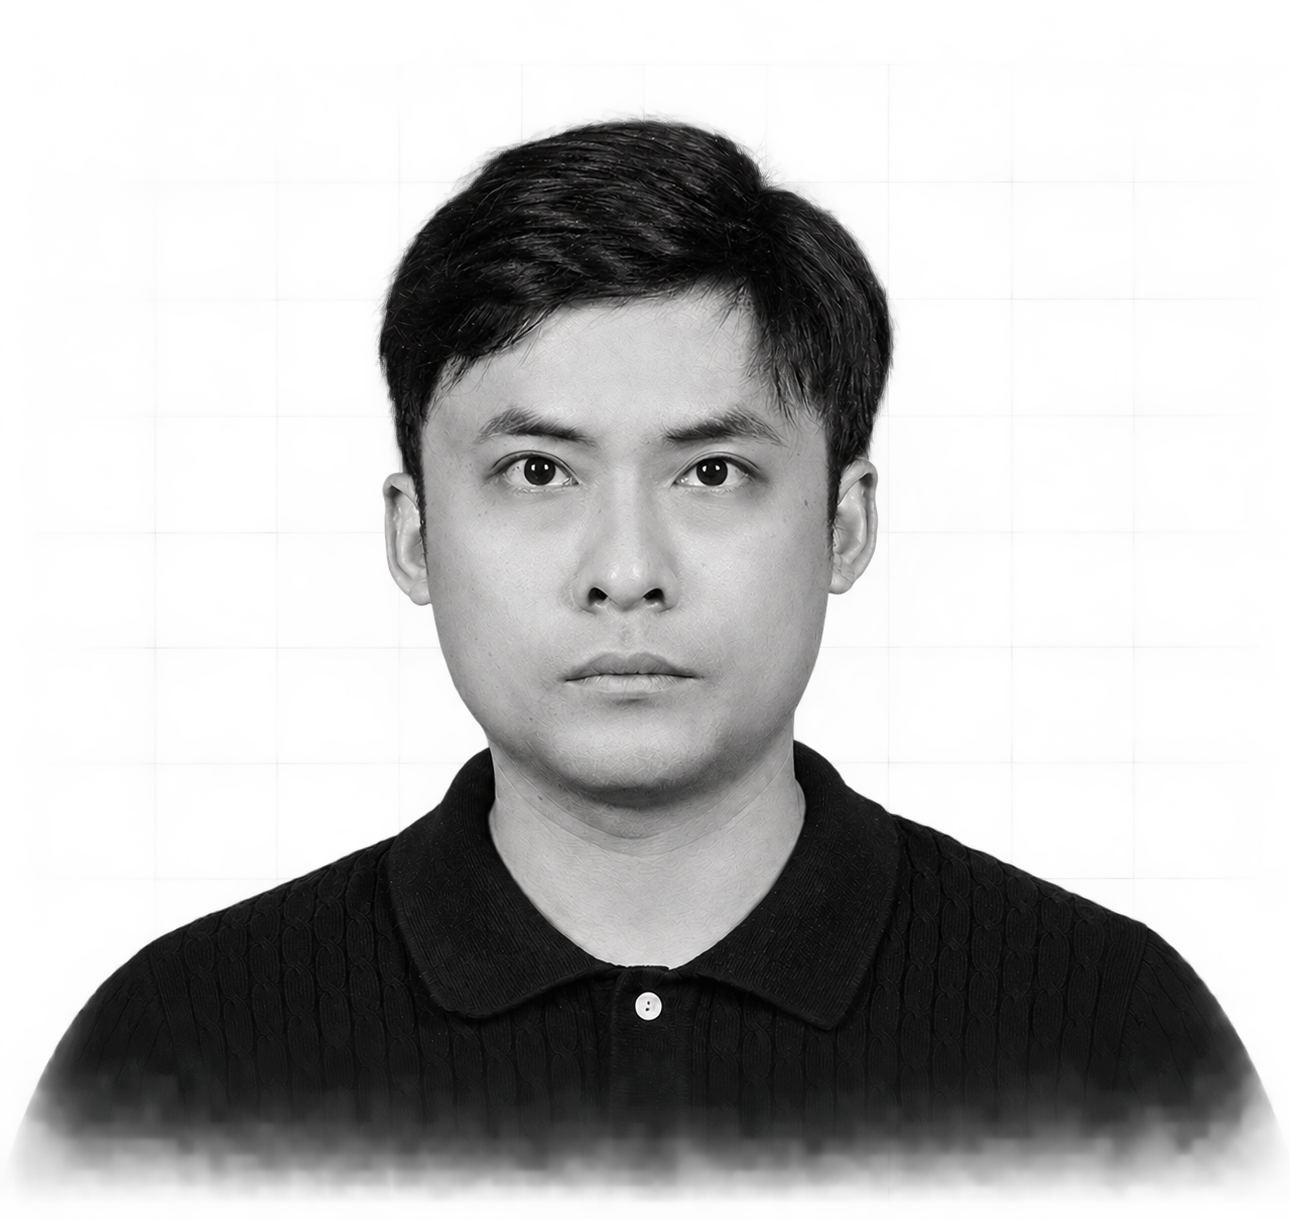
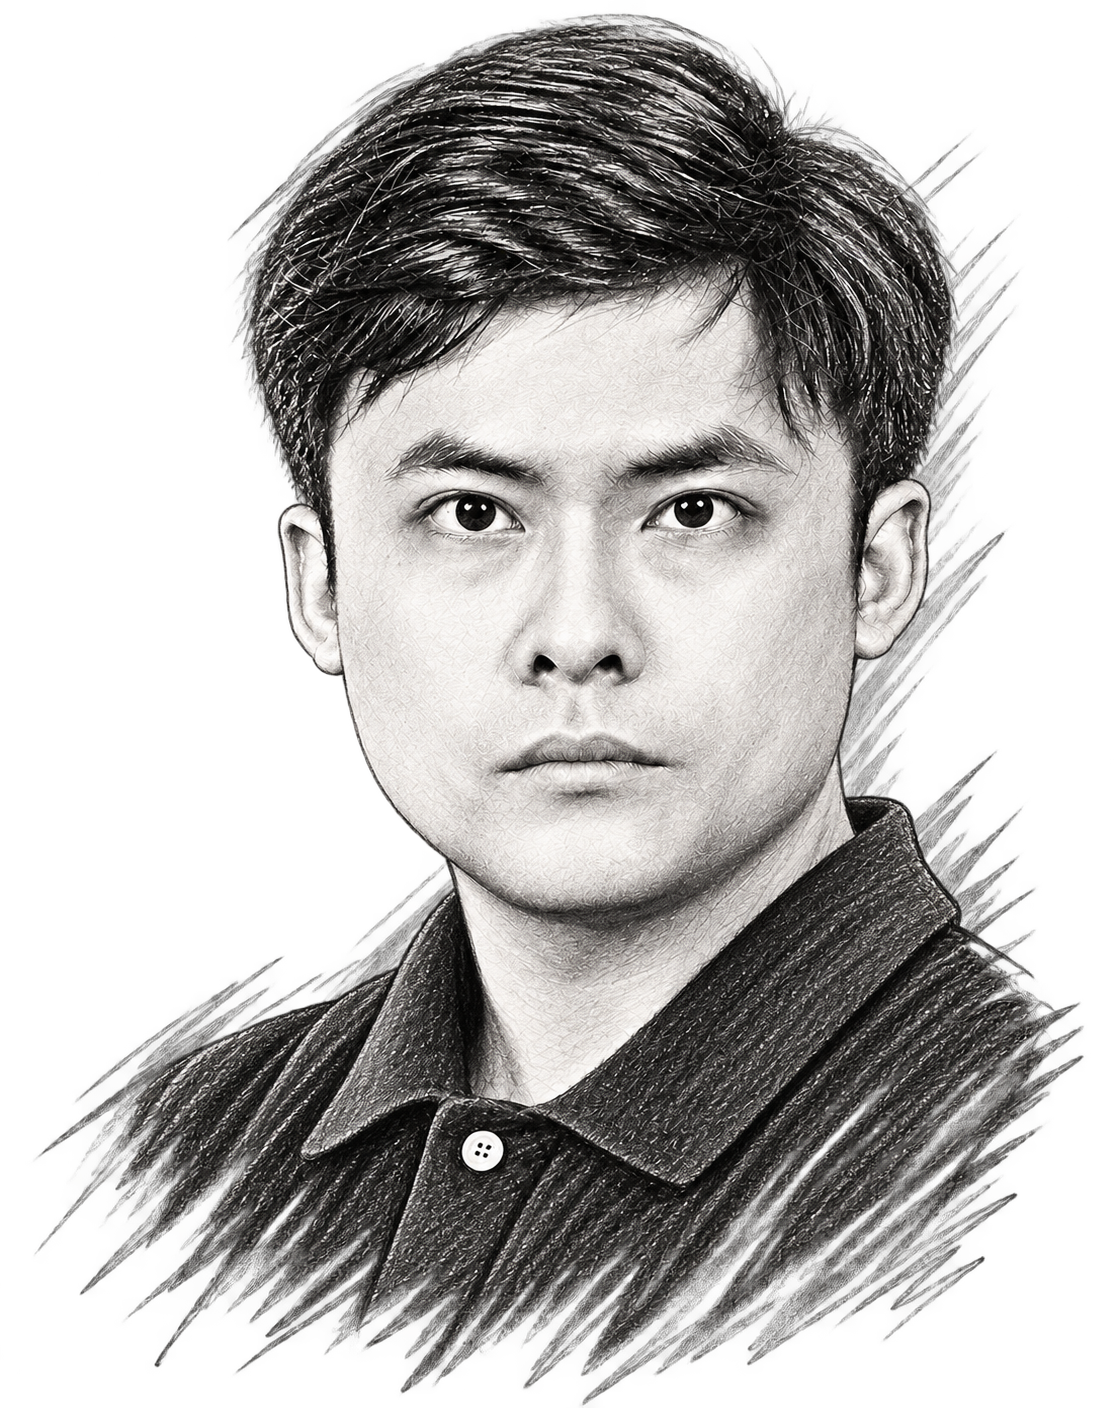
update portrait and SEO

diff --git a/src/components/hero/HeroPortrait.tsx b/src/components/hero/HeroPortrait.tsx
@@ -5,8 +5,8 @@ import styles from "../sections/Hero.module.css";
 export function HeroPortrait() {
   return (
     <div className={styles.portrait}>
-      <Image src={profile.portrait.src} alt={profile.portrait.alt} width={1290} height={1219}
-        sizes="(max-width: 583px) calc(100vw - 40px), (max-width: 900px) 544px, (max-width: 1199px) calc(52vw - 8px), (max-width: 1439px) calc(58vw + 80px), 916px"
+      <Image src={profile.portrait.src} alt={profile.portrait.alt} width={1117} height={1408}
+        sizes="(max-width: 487px) calc(100vw - 40px), (max-width: 900px) 448px, (max-width: 1199px) 432px, 544px"
         preload className={styles.portraitImage} />
     </div>
   );

diff --git a/src/components/sections/Hero.module.css b/src/components/sections/Hero.module.css
@@ -121,7 +121,7 @@
 .visual {
 	position: absolute;
 	z-index: -1;
-	top: -4rem;
+	top: 0;
 	right: 0;
 	bottom: 8rem;
 	width: 58%;
@@ -137,7 +137,8 @@
 }
 .portrait {
 	position: absolute;
-	inset: 0 0 0 -5rem;
+	inset: 0 var(--page-gutter) 0 auto;
+	width: min(100%, 34rem);
 }
 .portraitImage {
 	width: 100%;
@@ -209,7 +210,8 @@
 		width: 52%;
 	}
 	.portrait {
-		inset: 0 3.5rem 0 -3rem;
+		inset: 0 1rem 0 auto;
+		width: min(100%, 27rem);
 	}
 	.portraitImage {
 		object-position: center 20%;
@@ -272,7 +274,7 @@
 		position: relative;
 		z-index: 0;
 		inset: auto;
-		width: min(100%, 34rem);
+		width: min(100%, 28rem);
 		margin: 2.25rem auto 1.75rem;
 	}
 	.portrait {

diff --git a/src/content/site.ts b/src/content/site.ts
@@ -4,7 +4,7 @@ export const site = {
   name: "Huỳnh Minh Chiến — Portfolio",
   title: "Huỳnh Minh Chiến | Frontend Engineer & Team Lead",
   description: "Portfolio of Huỳnh Minh Chiến: frontend development with React, Next.js and React Native, payment interfaces, team mentoring and delivery coordination.",
-  image: "/images/social-card.png",
+  image: "/images/social-card.png?v=20260912",
   imageAlt: "Huỳnh Minh Chiến — Frontend Engineer, Delivery Lead and Team Lead. Web, mobile and payment products.",
   github: "https://github.com/chienhuynh-dev",
 } as const;

diff --git a/src/content/profile.ts b/src/content/profile.ts
@@ -4,7 +4,7 @@ export const profile = {
   shortName: "CHIEN",
   role: "Frontend Engineer · Delivery Lead · Team Lead",
   statement: "I build frontend interfaces for payment products and coordinate product delivery.",
-  portrait: { src: "/images/portrait.png", alt: "Portrait of Huỳnh Minh Chiến" },
+  portrait: { src: "/images/portrait.png?v=20260912", alt: "Illustrated portrait of Huỳnh Minh Chiến" },
   cv: { href: "/cv/huynh-minh-chien-cv.pdf", filename: "huynh-minh-chien-cv.pdf" },
   navigation: [
     { label: "WORK", href: "#work", mobile: true },

diff --git a/src/lib/image-loader.ts b/src/lib/image-loader.ts
@@ -2,6 +2,7 @@ import type { ImageLoaderProps } from "next/image";
 
 // Static hosting has no image server. These sizes are prepared before each build.
 export default function imageLoader({ src, width }: ImageLoaderProps): string {
-  if (src !== "/images/portrait.png") return src;
-  return `/images/portrait-${width}.webp`;
+  const [pathname, version] = src.split("?");
+  if (pathname !== "/images/portrait.png") return src;
+  return `/images/portrait-${width}.webp${version ? `?${version}` : ""}`;
 }

diff --git a/next.config.ts b/next.config.ts
@@ -7,7 +7,7 @@ const nextConfig: NextConfig = {
   images: {
     loader: "custom",
     loaderFile: "./src/lib/image-loader.ts",
-    deviceSizes: [280, 320, 390, 480, 544, 640, 768, 960, 1280],
+    deviceSizes: [280, 320, 390, 480, 544, 640, 768, 960, 1117],
     imageSizes: [],
   },
 };

diff --git a/README.md b/README.md
@@ -27,7 +27,7 @@ npm run build
 - `src/components/motion/Reveal.tsx`: a Server Component using CSS entrance animation from first paint; supports delay, distance, duration, disabled state, reduced motion, and no-JavaScript rendering. Hydration does not restart the entrance.
 - `src/content/work.ts`, `src/components/sections/SelectedWork*`, and `src/components/work/*`: three overviews with static capability summaries; no inferred execution sequence or scroll trace.
 - `src/lib/image-loader.ts` and `scripts/prepare-portrait.mjs`: local responsive image variants for static hosting.
-- `public/images/portrait.png` and nine responsive WebP files: prepared portrait assets.
+- `public/images/portrait.png` and nine responsive WebP files: prepared portrait assets based on the supplied illustrated avatar.
 - `public/cv/huynh-minh-chien-cv.pdf`: unchanged supplied CV.
 - `public/favicon.svg`: minimal personal favicon.
 - `package.json`, `package-lock.json`, `tsconfig.json`, `next.config.ts`, `next-env.d.ts`, `postcss.config.mjs`, `eslint.config.mjs`, `.gitignore`, `.openai/hosting.json`: foundation and hosting configuration.
@@ -44,7 +44,7 @@ Development: TypeScript 5.9.3, Tailwind CSS / PostCSS integration 4.3.3, ESLint 
 - Geist at weight 580 gives the requested lighter name and metrics. Name line-height is 1.01 on desktop and 1.04 on mobile to keep Vietnamese accents clear. This is slightly looser than the suggested range.
 - Content is capped at 1440px, with 64px desktop, 32px tablet, and 20px mobile gutters.
 - Secondary copy is slightly brighter than the suggested base gray for contrast. The palette uses charcoal `#111110`, ivory `#F2EEE6`, and a restrained copper accent `#D6A477` (hover `#E5B98F`). Neutral grays and borders use warm tones; technology labels remain muted.
-- Desktop enlarges the supplied portrait and starts the lower fade at 83% to retain the available shoulders and shirt. Source pixels and identity are unchanged; no generated portrait is integrated.
+- Desktop enlarges the supplied portrait and starts the lower fade at 83% to retain the available shoulders and shirt. Source pixels and identity are unchanged; the supplied illustrated avatar is used.
 - At 900px and below, the hero uses a stacked composition. Wider tablets retain a dedicated split layout.
 - Mobile order: name, role, statement, actions, portrait, then metrics. The image determines visual height, avoiding an empty reserved region. WORK, ABOUT and CV remain available on mobile.
 - Buttons use two columns at 390px and above, and stack below 390px. Metrics remain three compact columns; labels may wrap, numbers do not.
@@ -52,11 +52,11 @@ Development: TypeScript 5.9.3, Tailwind CSS / PostCSS integration 4.3.3, ESLint 
 
 ## Portrait status
 
-`public/images/portrait.png` is the user-provided 1290 × 1219 RGBA image, copied without modification.
+`public/images/portrait.png` is the user-provided 1117 × 1408 RGBA image, copied without modification.
 
 A subtle warm tint (22% sepia), softened saturation, gentle contrast / brightness, and edge / lower fades are CSS presentation; this does not reconstruct original skin colors.
 
-The nine WebP delivery sizes are 280, 320, 390, 480, 544, 640, 768, 960, and 1280px wide. `sizes` tracks the rendered CSS width. The 1280px derivative approaches the 1290px master resolution; full 2× sharpness at the enlarged desktop size would require a higher-resolution source. They are compressed/resized derivatives; the master PNG retains original RGB pixels. Replace the master PNG and rerun dev/build to regenerate them. If the aspect ratio changes, update the image dimensions in HeroPortrait too.
+The nine WebP delivery sizes are 280, 320, 390, 480, 544, 640, 768, 960, and 1117px wide. `sizes` tracks the rendered CSS width. The largest derivative matches the 1117px master width and supports the 544px desktop image at 2× pixel density. They are compressed/resized derivatives; the master PNG retains original RGB pixels. Replace the master PNG and rerun dev/build to regenerate them. If the aspect ratio changes, update the image dimensions in HeroPortrait too.
 
 ## Validation and scope
 
@@ -92,3 +92,5 @@ The approved six effects use existing project capability panels (no fabricated p
 The social card is `public/images/social-card.png` (1200×630). Regenerate it if the displayed identity or role changes. Google/Bing ownership verification and platform preview-cache refreshes must be performed using the owner's accounts after deployment.
 
 Optional build-time Vercel environment variables: `GOOGLE_SITE_VERIFICATION` and `BING_SITE_VERIFICATION` contain the respective HTML-tag verification content values. Redeploy after setting them; they are intentionally public verification tokens rendered in page metadata. Never put account passwords or API keys in these variables.
+
+The portrait and social-card URLs include the version `20260912` to refresh image caches after replacing the avatar. The original uploaded avatar is copied unchanged; the hero and social card use CSS framing.
